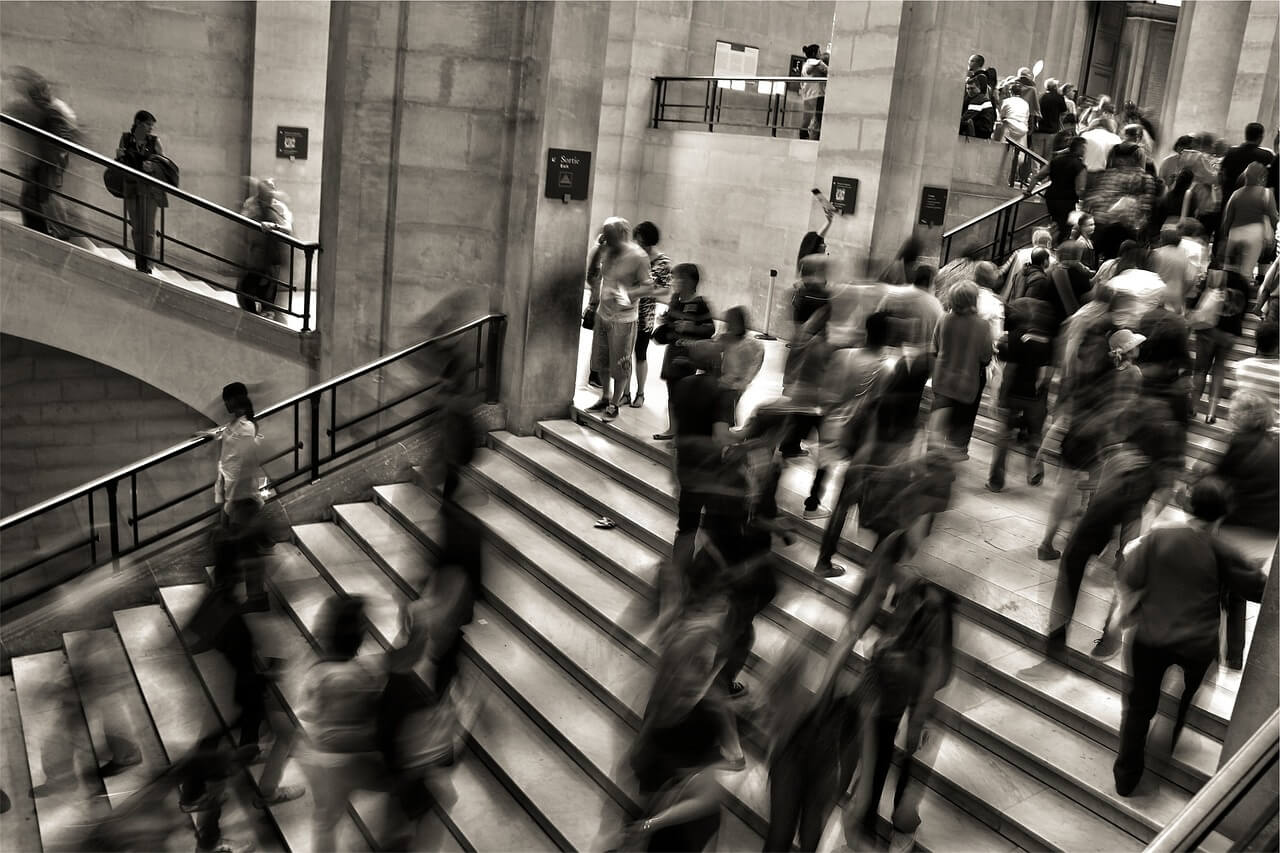
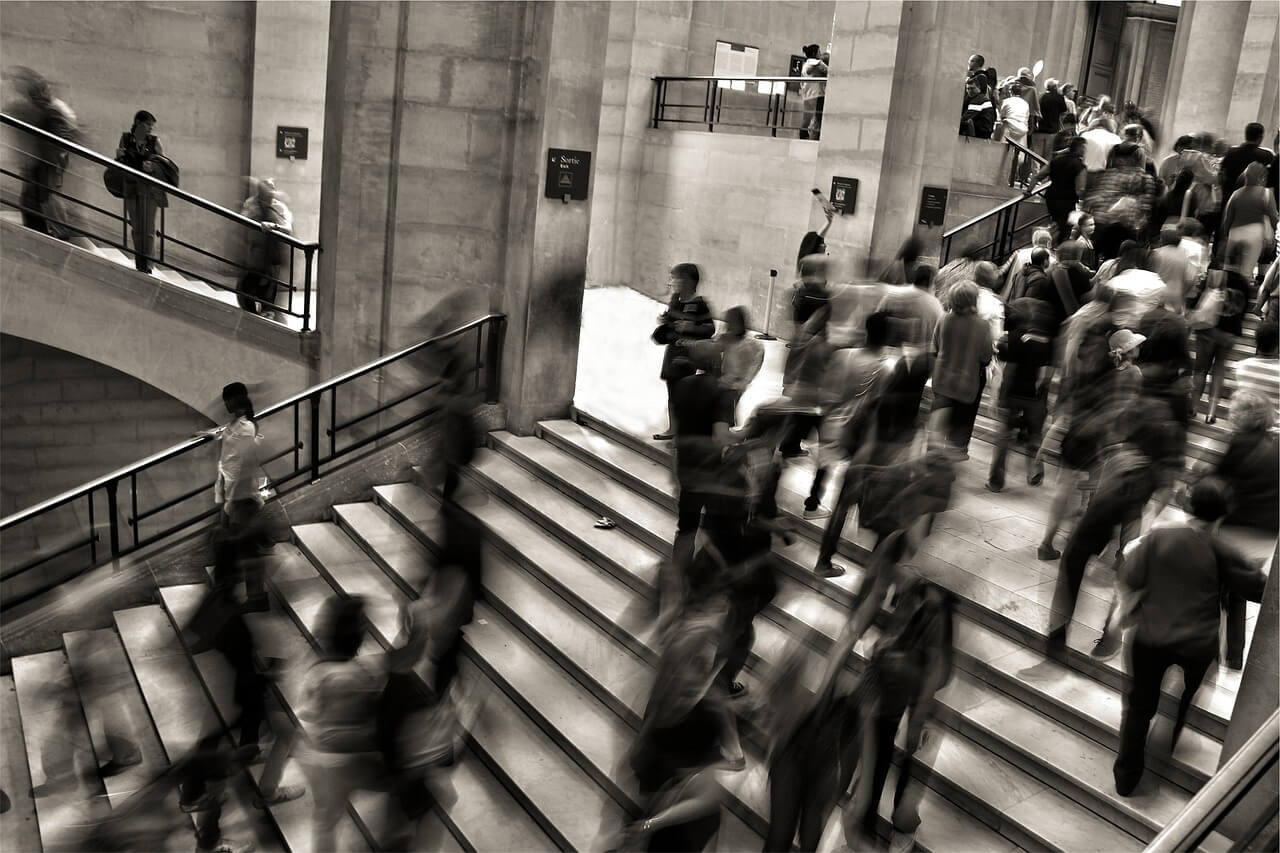
removed people in main image to improve contrast

Changed region(s): [[0.4375, 0.2438, 0.5312, 0.5182]]

diff --git a/css/main.scss b/css/main.scss
@@ -56,7 +56,7 @@ li.blg-post-item a img {
 
 
 .c-homepage { 
-  background: url(/images/people-crowd.jpg) no-repeat center center fixed; 
+  background: url(/images/people-crowd.jpg) no-repeat top left fixed; 
   -webkit-background-size: cover;
   -moz-background-size: cover;
   -o-background-size: cover;
